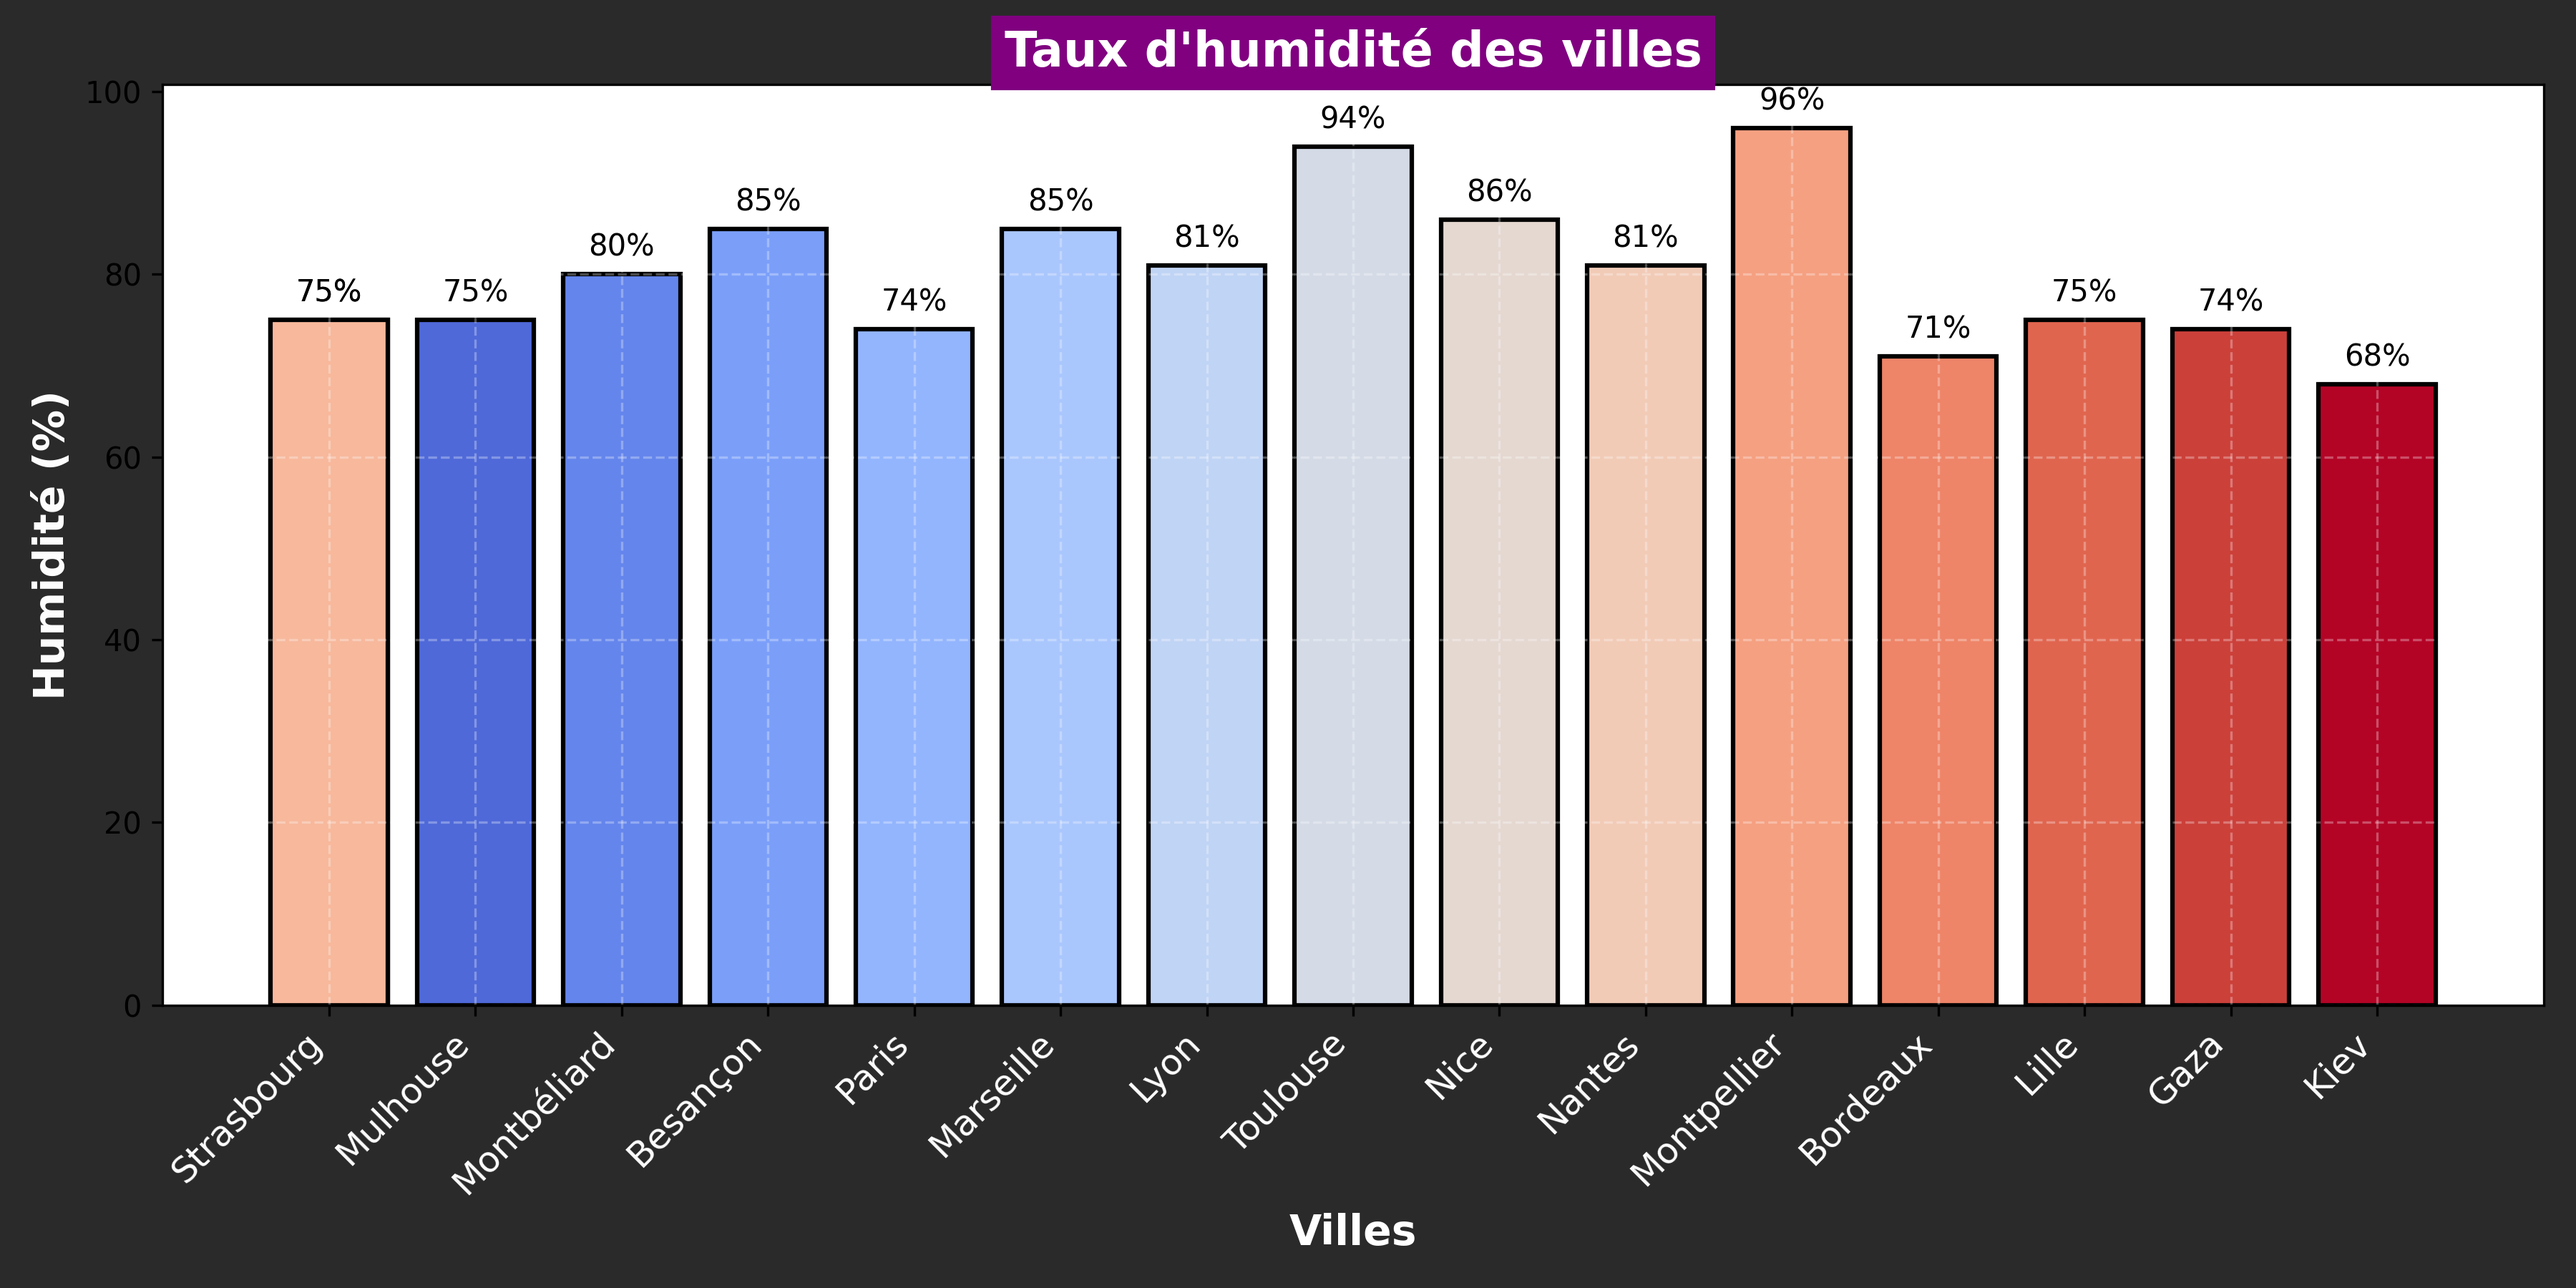
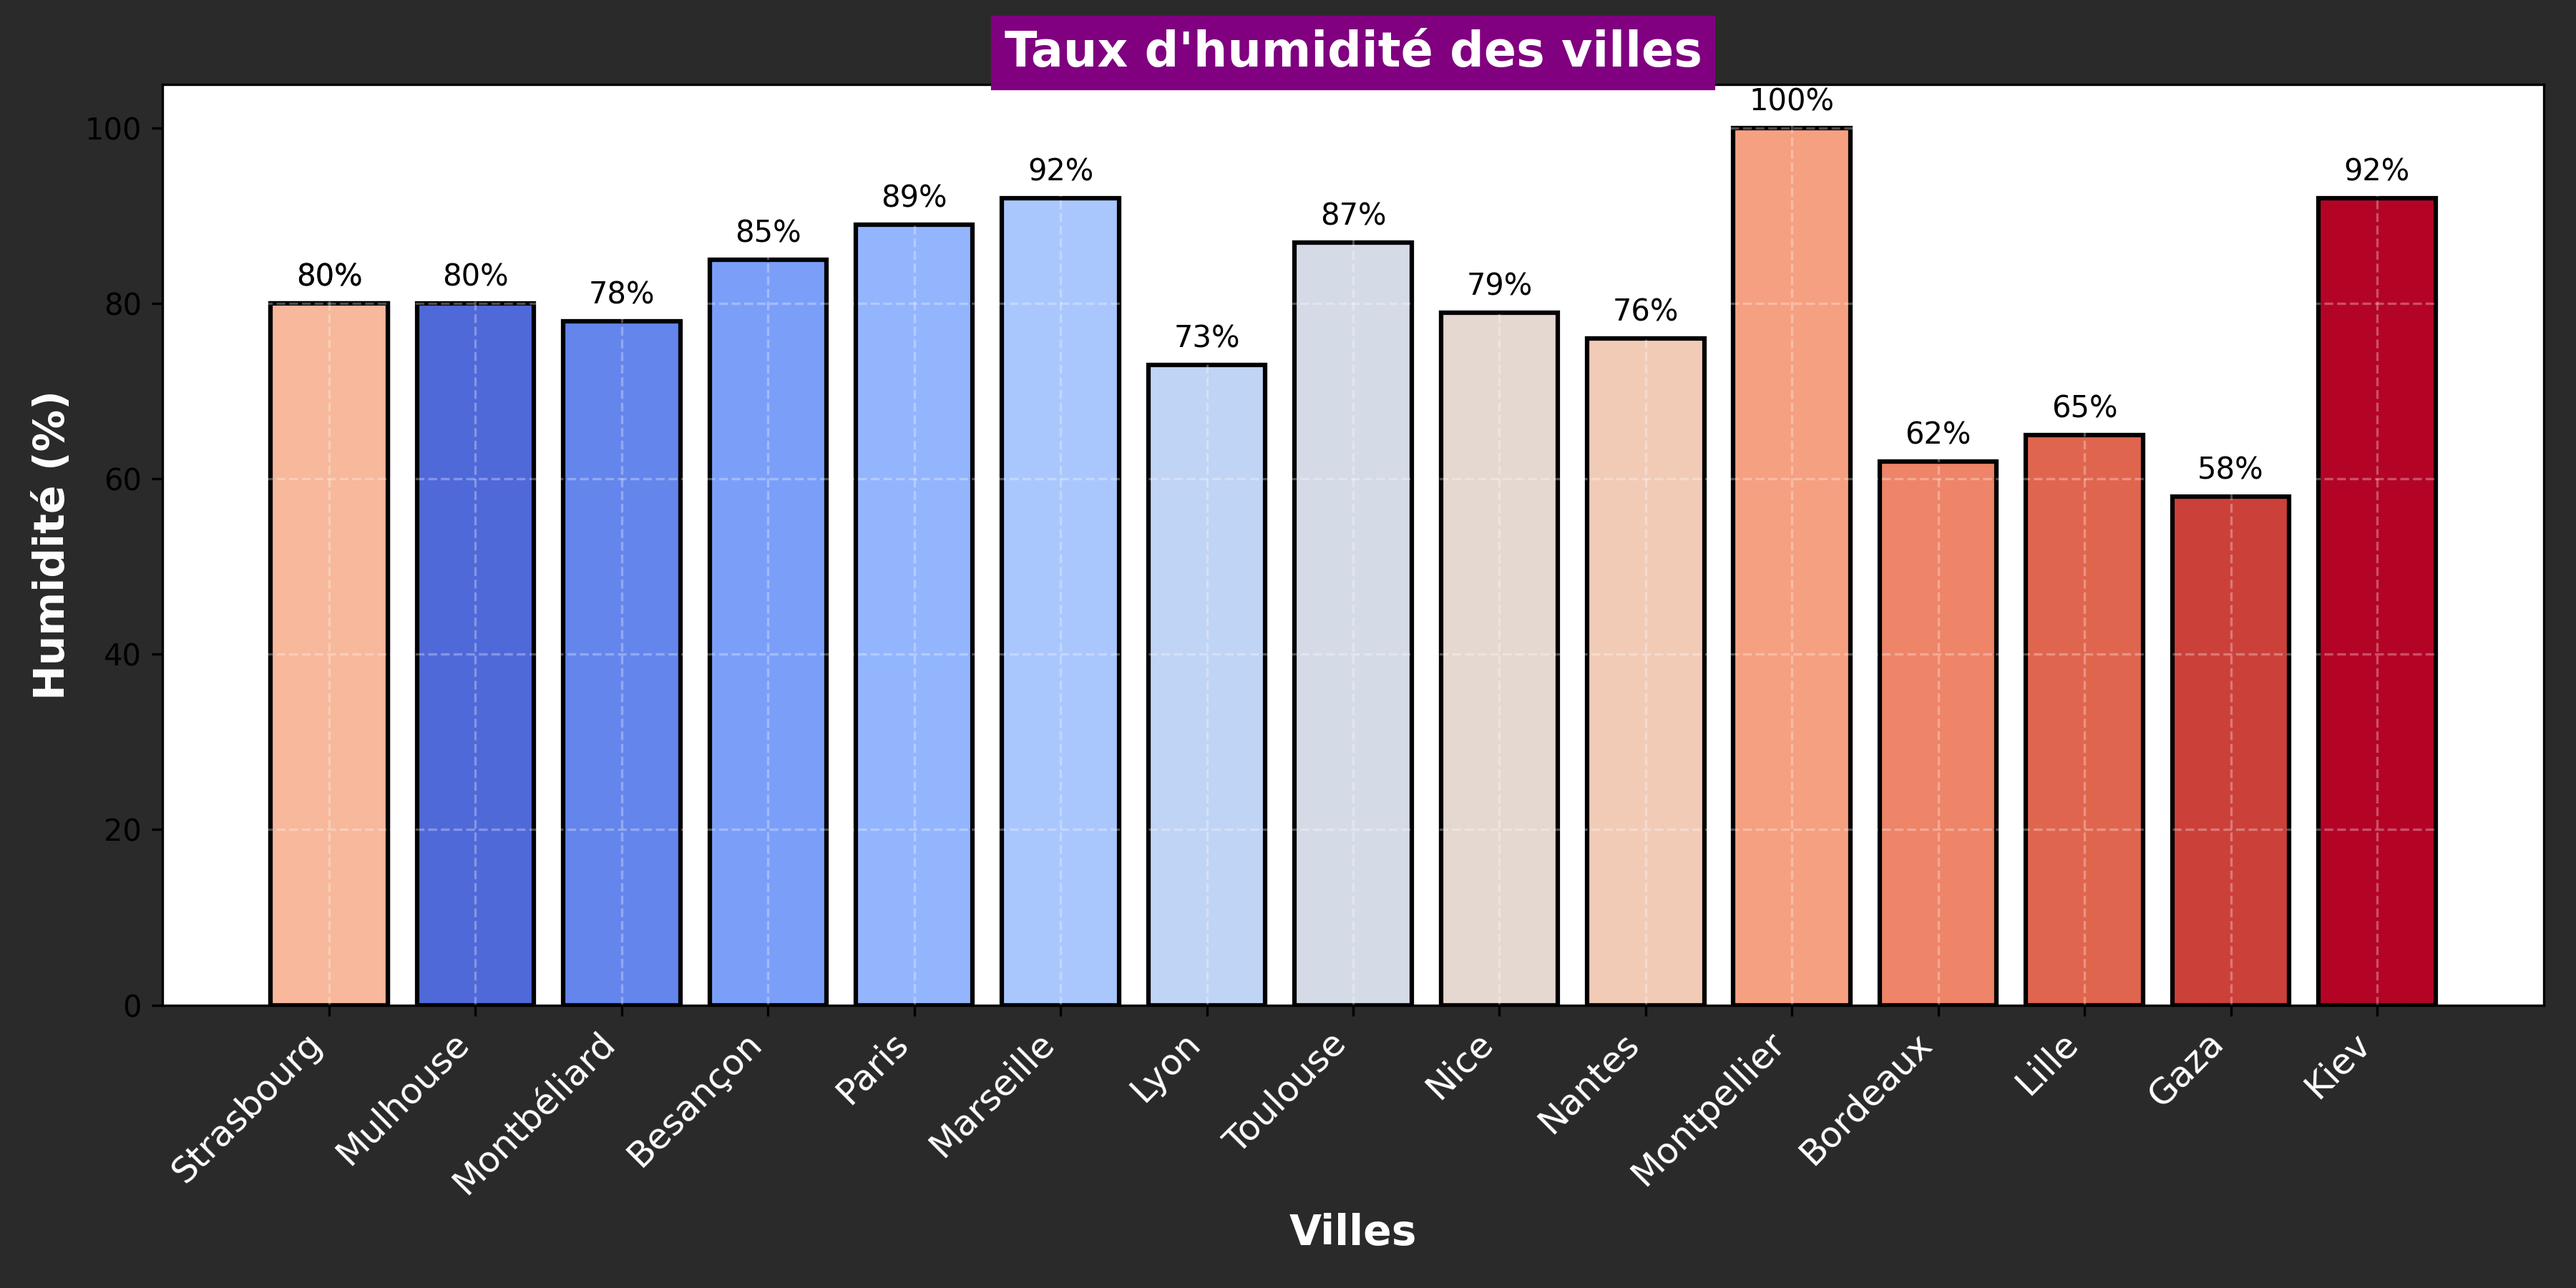
Mise à jour de la météo et ajout du graphique d'humidité

diff --git a/README.md b/README.md
@@ -24,103 +24,103 @@ Ce repo contient plusieurs workflows GitHub Actions :
 ## Météo actuelle :
 ## Météo des grandes villes + Gaza et Kiev 🌍
 
-🕒 Mise à jour : 09/04/2025 08:17:14
+🕒 Mise à jour : 10/04/2025 08:17:25
 
-### 🌍 Strasbourg ☀
-**Conditions :** ciel dégagé
-**Température :** 3.03°C
-**Humidité :** 75%
-**Vent :** 2.57 m/s
-
-### 🌍 Mulhouse 🌥
+### 🌍 Strasbourg 🌥
 **Conditions :** couvert
-**Température :** 4.17°C
-**Humidité :** 75%
-**Vent :** 0.64 m/s
+**Température :** 4.16°C
+**Humidité :** 80%
+**Vent :** 2.07 m/s
+
+### 🌍 Mulhouse ☀
+**Conditions :** ciel dégagé
+**Température :** 4.18°C
+**Humidité :** 80%
+**Vent :** 0.51 m/s
 
 ### 🌍 Montbéliard 🌥
-**Conditions :** nuageux
-**Température :** 8.32°C
-**Humidité :** 80%
-**Vent :** 1.35 m/s
+**Conditions :** peu nuageux
+**Température :** 8.88°C
+**Humidité :** 78%
+**Vent :** 1.89 m/s
 
-### 🌍 Besançon 🌥
-**Conditions :** nuageux
-**Température :** 6.05°C
-**Humidité :** 85%
-**Vent :** 0.5 m/s
-
-### 🌍 Paris ☀
+### 🌍 Besançon ☀
 **Conditions :** ciel dégagé
-**Température :** 7.08°C
-**Humidité :** 74%
+**Température :** 4.67°C
+**Humidité :** 85%
+**Vent :** 2.02 m/s
+
+### 🌍 Paris 🌥
+**Conditions :** peu nuageux
+**Température :** 5.94°C
+**Humidité :** 89%
 **Vent :** 4.12 m/s
 
-### 🌍 Marseille 🌥
-**Conditions :** couvert
+### 🌍 Marseille ☀
+**Conditions :** ciel dégagé
 **Température :** 8.62°C
-**Humidité :** 85%
-**Vent :** 1.86 m/s
+**Humidité :** 92%
+**Vent :** 1.36 m/s
 
-### 🌍 Lyon 🌥
-**Conditions :** couvert
-**Température :** 4.19°C
-**Humidité :** 81%
-**Vent :** 0.75 m/s
+### 🌍 Lyon ☀
+**Conditions :** ciel dégagé
+**Température :** 5.41°C
+**Humidité :** 73%
+**Vent :** 1.11 m/s
 
 ### 🌍 Toulouse 🌥
-**Conditions :** couvert
+**Conditions :** peu nuageux
 **Température :** 11.99°C
-**Humidité :** 94%
-**Vent :** 5.14 m/s
+**Humidité :** 87%
+**Vent :** 1.54 m/s
 
-### 🌍 Nice 🌥
-**Conditions :** couvert
-**Température :** 6.94°C
-**Humidité :** 86%
-**Vent :** 0.82 m/s
+### 🌍 Nice ☀
+**Conditions :** ciel dégagé
+**Température :** 5.83°C
+**Humidité :** 79%
+**Vent :** 1.6 m/s
 
 ### 🌍 Nantes ☀
 **Conditions :** ciel dégagé
-**Température :** 5.96°C
-**Humidité :** 81%
-**Vent :** 2.57 m/s
+**Température :** 8.96°C
+**Humidité :** 76%
+**Vent :** 6.17 m/s
 
-### 🌍 Strasbourg ☀
-**Conditions :** ciel dégagé
-**Température :** 3.03°C
-**Humidité :** 75%
-**Vent :** 2.57 m/s
+### 🌍 Strasbourg 🌥
+**Conditions :** couvert
+**Température :** 4.16°C
+**Humidité :** 80%
+**Vent :** 2.07 m/s
 
 ### 🌍 Montpellier 🌥
-**Conditions :** couvert
-**Température :** 11.94°C
-**Humidité :** 96%
-**Vent :** 2.57 m/s
+**Conditions :** nuageux
+**Température :** 7.71°C
+**Humidité :** 100%
+**Vent :** 2.06 m/s
 
 ### 🌍 Bordeaux ☀
 **Conditions :** ciel dégagé
-**Température :** 9.15°C
-**Humidité :** 71%
-**Vent :** 2.57 m/s
+**Température :** 11.15°C
+**Humidité :** 62%
+**Vent :** 3.6 m/s
 
 ### 🌍 Lille 🌥
-**Conditions :** peu nuageux
-**Température :** 5.44°C
-**Humidité :** 75%
-**Vent :** 3.09 m/s
+**Conditions :** couvert
+**Température :** 7.25°C
+**Humidité :** 65%
+**Vent :** 4.63 m/s
 
 ### 🌍 Gaza 🌥
-**Conditions :** nuageux
-**Température :** 20.16°C
-**Humidité :** 74%
-**Vent :** 4.48 m/s
+**Conditions :** peu nuageux
+**Température :** 17.11°C
+**Humidité :** 58%
+**Vent :** 6.94 m/s
 
 ### 🌍 Kiev 🌥
-**Conditions :** partiellement nuageux
-**Température :** 2.62°C
-**Humidité :** 68%
-**Vent :** 0.45 m/s
+**Conditions :** chutes de neige
+**Température :** 1.51°C
+**Humidité :** 92%
+**Vent :** 3.41 m/s
 
 <p align='center'><img src='https://raw.githubusercontent.com/khoa083/khoa/main/Khoa_ne/img/Rainbow.gif' width='100%' style='border-radius: 5px; border: 3px solid #39FF14; box-shadow: 0 0 10px #39FF14, 0 0 20px #39FF14;' /></p>
 
